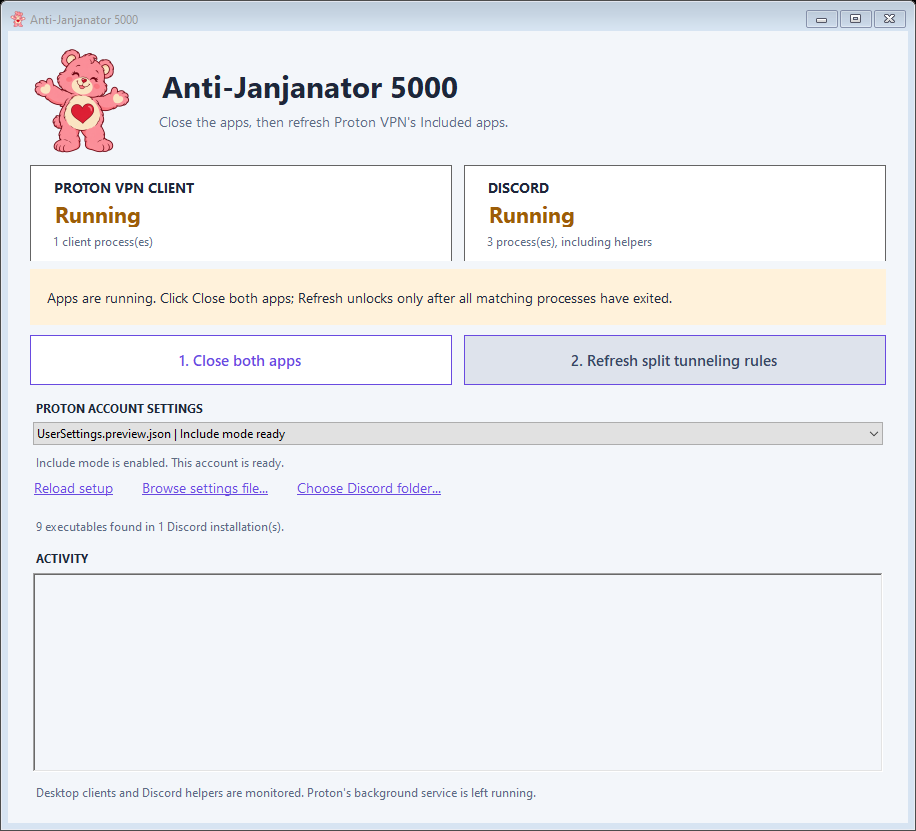
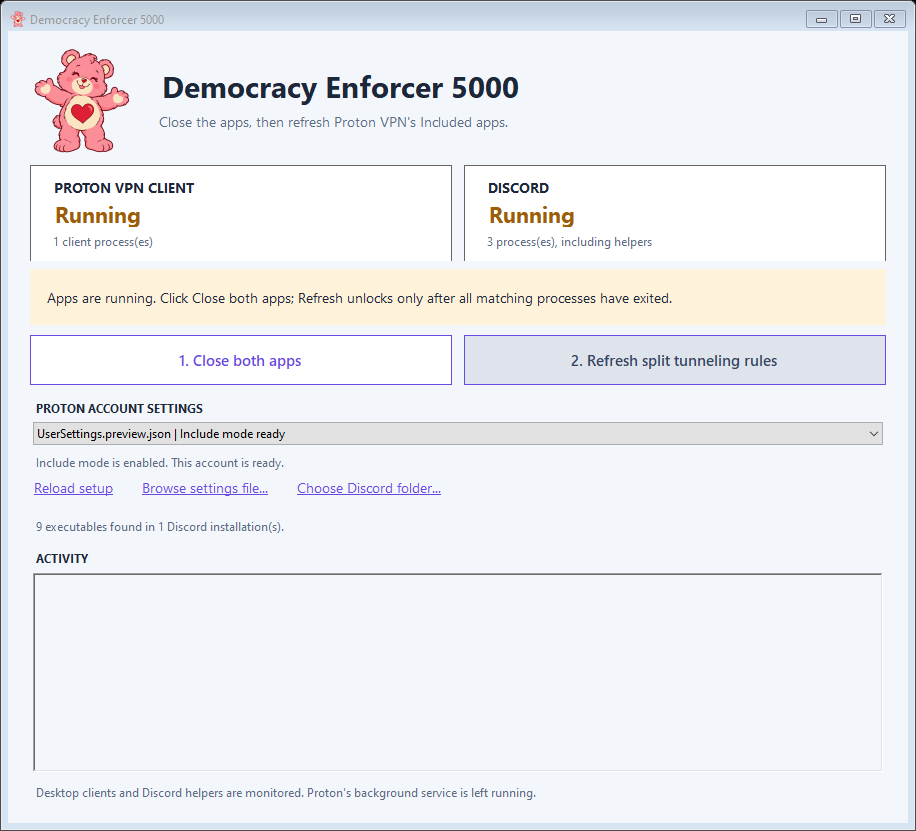
Rename software to Democracy Enforcer 5000

Changed region(s): [[0.1834, 0.0903, 0.5808, 0.1203], [0.0306, 0.0, 0.1834, 0.0301]]

diff --git a/docs/site/index.html b/docs/site/index.html
@@ -4,16 +4,16 @@
   <meta charset="utf-8">
   <meta name="viewport" content="width=device-width, initial-scale=1">
   <meta name="theme-color" content="#f7efdf">
-  <meta name="description" content="Anti-Janjanator 5000 — a portable Windows utility that keeps Discord's executable paths current in Proton VPN's Included apps.">
+  <meta name="description" content="Democracy Enforcer 5000 — a portable Windows utility that keeps Discord's executable paths current in Proton VPN's Included apps.">
   <link rel="icon" href="assets/love-bear.png">
-  <title>Anti-Janjanator 5000 / Made with love.</title>
+  <title>Democracy Enforcer 5000 / Made with love.</title>
   <link rel="stylesheet" href="style.css">
   <script src="script.js" defer></script>
 </head>
 <body>
   <a class="skip" href="#main">Skip to content</a>
   <header class="nav wrap">
-    <a class="brand" href="#" aria-label="Anti-Janjanator 5000 home"><img class="brand-art" src="assets/love-bear.png" alt="Pink bear with a heart"><span>ANTI-JANJANATOR<span class="brand-sub">5000 / NETWORK UTILITIES</span></span></a>
+    <a class="brand" href="#" aria-label="Democracy Enforcer 5000 home"><img class="brand-art" src="assets/love-bear.png" alt="Pink bear with a heart"><span>DEMOCRACY ENFORCER<span class="brand-sub">5000 / NETWORK UTILITIES</span></span></a>
     <nav aria-label="Main navigation"><a href="#protocol">How it works</a><a href="#setup">Get started</a><a class="repo-link" href="https://github.com/Billy364/Anti-Janjanator-5000-repo">Source code <span aria-hidden="true">↗</span></a></nav>
   </header>
   <main id="main">
@@ -24,28 +24,28 @@
         <p class="tagline">Because Democracy is beautiful and we should break all the rules to defend it</p>
         <p class="intro">New Discord version. New executable path. Same broken split tunneling. <strong>Put the right paths back in Proton VPN.</strong></p>
         <div class="actions"><a class="button" href="#setup">BUILD YOUR COPY <span aria-hidden="true">↗</span></a><a class="text-link" href="#protocol">See how it works <span aria-hidden="true">↓</span></a></div>
-        <div class="hero-meta"><span>WINDOWS x64</span><span>PORTABLE</span><span>v9 SOURCE</span></div>
+        <div class="hero-meta"><span>WINDOWS x64</span><span>PORTABLE</span><span>v11 SOURCE</span></div>
       </div>
       <figure class="app-showcase">
-        <div class="app-label"><span class="pulse"></span> ANTI-JANJANATOR 5000 <span>WINDOWS / v9</span></div>
-        <a href="assets/screenshot.png" target="_blank" rel="noopener" aria-label="View full-size app screenshot"><img class="app-screenshot" src="assets/screenshot.png" alt="Anti-Janjanator 5000 Windows interface showing Proton and Discord status, Close both apps and Refresh split tunneling rules buttons, and an example Proton account." width="916" height="831"></a>
+        <div class="app-label"><span class="pulse"></span> DEMOCRACY ENFORCER 5000 <span>WINDOWS / v11</span></div>
+        <a href="assets/screenshot.png" target="_blank" rel="noopener" aria-label="View full-size app screenshot"><img class="app-screenshot" src="assets/screenshot.png" alt="Democracy Enforcer 5000 Windows interface showing Proton and Discord status, Close both apps and Refresh split tunneling rules buttons, and an example Proton account." width="916" height="831"></a>
         <figcaption><span>THE ACTUAL APP / EXAMPLE DATA</span><a href="assets/screenshot.png" target="_blank" rel="noopener">INSPECT FULL SIZE ↗</a></figcaption>
       </figure>
     </section>
     <div class="ticker"><div class="wrap"><span>NO INSTALLER</span><span class="cross" aria-hidden="true">♥</span><span>NO EXTERNAL LIBRARIES</span><span class="cross" aria-hidden="true">♥</span><span>YOUR SETTINGS. YOUR MACHINE.</span><span class="cross" aria-hidden="true">♥</span><span>READ THE SOURCE</span></div></div>
     <section id="protocol" class="section wrap">
       <div class="section-heading"><p class="eyebrow">01 / A LITTLE CARE GOES A LONG WAY</p><h2>Two buttons.<br>One clean handoff.</h2><p>Discord moves its executables between version folders. This utility finds the current paths and refreshes Proton’s Included apps, while preserving unrelated entries.</p></div>
-      <div class="steps"><article><span class="step-number">01</span><div><p class="micro">SHUTDOWN / VERIFY</p><h3>Close both apps.</h3><p>Close Discord and Proton’s desktop client. Helpers are checked too. If a process can’t be verified, Refresh stays locked.</p><span class="tag">BACKGROUND VPN SERVICE LEFT RUNNING</span></div></article><article><span class="step-number">02</span><div><p class="micro">SCAN / BACK UP / REPLACE</p><h3>Refresh the rules.</h3><p>Add current Discord executables. Remove stale paths. Keep other Included apps. Each actual change gets an exact backup.</p><span class="tag">ALREADY CURRENT? NO WRITE. NO BACKUP.</span></div></article><article><span class="step-number">↗</span><div><p class="micro">MANUAL HANDOFF</p><h3>Reconnect. Carry on.</h3><p>Open Proton yourself and reconnect, then reopen Discord. The utility leaves the apps closed after refreshing.</p><span class="tag">DISCORD / PTB / CANARY</span></div></article></div>
+      <div class="steps"><article><span class="step-number">01</span><div><p class="micro">SHUTDOWN / VERIFY</p><h3>Close both apps.</h3><p>Close Discord and Proton’s desktop client. Helpers are checked too. If a process can’t be verified, Refresh stays locked.</p><span class="tag">BACKGROUND VPN SERVICE LEFT RUNNING</span></div></article><article><span class="step-number">02</span><div><p class="micro">SCAN / BACK UP / REPLACE</p><h3>Refresh the rules.</h3><p>Enable Include mode and add current Discord executables. Remove stale paths and keep other Included apps. Each actual change gets an exact backup.</p><span class="tag">ALREADY CURRENT? NO WRITE. NO BACKUP.</span></div></article><article><span class="step-number">↗</span><div><p class="micro">AUTOMATIC HANDOFF</p><h3>Reconnect. Carry on.</h3><p>Proton opens automatically after a successful refresh. Wait for its connection, then reopen Discord. Discord stays closed.</p><span class="tag">DISCORD / PTB / CANARY</span></div></article></div>
     </section>
-    <section class="setup-note wrap"><span class="note-icon" aria-hidden="true">!</span><div><p class="micro">KNOW WHAT YOU’RE RUNNING</p><h3>First launch sets your Proton preferences.</h3><p>Once per Windows user, setup requests startup with Windows, auto-connect, Fastest country excluding Brazil, Proton WireGuard, and Split tunneling in Include mode. It waits for Proton to exit and backs up changed files. You can continue without setup.</p><a class="text-link" href="https://github.com/Billy364/Anti-Janjanator-5000-repo/blob/main/docs/FIRST-LAUNCH.md">Read the first-launch details ↗</a></div></section>
+    <section class="setup-note wrap"><span class="note-icon" aria-hidden="true">!</span><div><p class="micro">KNOW WHAT YOU’RE RUNNING</p><h3>First launch sets your Proton preferences.</h3><p>Once per Windows user, setup requests startup with Windows, auto-connect, Fastest country excluding Brazil, Proton WireGuard, and Split tunneling in Include mode. Exit Proton, select your account, then click Apply setup and open updater. Setup is required before first use and backs up changed files.</p><a class="text-link" href="https://github.com/Billy364/Anti-Janjanator-5000-repo/blob/main/docs/FIRST-LAUNCH.md">Read the first-launch details ↗</a></div></section>
     <section id="setup" class="section deploy wrap">
       <div class="section-heading"><p class="eyebrow">02 / MADE FOR YOUR MACHINE</p><h2>Open source.<br><span class="green">Open hearts.</span></h2><p>64-bit Windows, Windows PowerShell 5.1, and the .NET Framework 4.x C# compiler. No NuGet, npm, or Visual Studio project required.</p><a class="text-link" href="https://github.com/Billy364/Anti-Janjanator-5000-repo">Explore the repository ↗</a></div>
-      <div class="build-panel"><div class="build-heading"><span>WINDOWS POWERSHELL</span><button id="copy" type="button">COPY COMMANDS <span aria-hidden="true">▣</span></button></div><pre><code id="commands">git clone https://github.com/Billy364/Anti-Janjanator-5000-repo.git
-cd Anti-Janjanator-5000-repo
-powershell.exe -NoProfile -ExecutionPolicy Bypass -File .\build.ps1</code></pre><div class="build-result"><span class="green">↳ OUTPUT</span><code>dist\Anti-Janjanator-5000\</code><p>Open <strong>Anti-Janjanator 5000.exe</strong>. Keep the entire folder together; the PowerShell workers must stay beside it. A portable ZIP is generated too.</p></div><p id="copy-status" class="copy-status" role="status" aria-live="polite"></p></div>
+      <div class="build-panel"><div class="build-heading"><span>WINDOWS POWERSHELL</span><button id="copy" type="button">COPY COMMANDS <span aria-hidden="true">▣</span></button></div><pre><code id="commands">git clone https://github.com/Billy364/Anti-Janjanator-5000-repo.git Democracy-Enforcer-5000-repo
+cd Democracy-Enforcer-5000-repo
+powershell.exe -NoProfile -ExecutionPolicy Bypass -File .\build.ps1</code></pre><div class="build-result"><span class="green">↳ OUTPUT</span><code>dist\Democracy-Enforcer-5000\</code><p>Open <strong>Democracy Enforcer 5000.exe</strong>. Keep the entire folder together; the PowerShell workers must stay beside it. A portable ZIP is generated too.</p></div><p id="copy-status" class="copy-status" role="status" aria-live="polite"></p></div>
     </section>
     <section class="fine-print wrap"><p><span class="green">// TRANSPARENCY</span> Unofficial utility. Builds are unsigned. Synthetic tests cover settings preservation and process guards; they do not verify live VPN traffic routing. Proton controls feature availability.</p><a href="https://github.com/Billy364/Anti-Janjanator-5000-repo/blob/main/docs/USER-GUIDE.md">USER GUIDE ↗</a></section>
   </main>
-  <footer class="wrap"><a class="footer-brand" href="#">ANTI-JANJANATOR <span class="green">5000</span></a><span>MADE WITH LOVE. FOR DEMOCRACY.</span><a href="https://github.com/Billy364/Anti-Janjanator-5000-repo">GITHUB ↗</a></footer>
+  <footer class="wrap"><a class="footer-brand" href="#">DEMOCRACY ENFORCER <span class="green">5000</span></a><span>MADE WITH LOVE. FOR DEMOCRACY.</span><a href="https://github.com/Billy364/Anti-Janjanator-5000-repo">GITHUB ↗</a></footer>
 </body>
 </html>

diff --git a/tests/HeaderPreview.cs b/tests/HeaderPreview.cs
@@ -25,7 +25,7 @@ class HeaderPreview
     static Label FindHeading(Control control)
     {
         Label label = control as Label;
-        if (label != null && label.Text == "Anti-Janjanator 5000") return label;
+        if (label != null && label.Text == "Democracy Enforcer 5000") return label;
         foreach (Control child in control.Controls) { Label found = FindHeading(child); if (found != null) return found; }
         return null;
     }
@@ -45,7 +45,7 @@ class HeaderPreview
             FieldInfo field = typeof(UpdaterForm).GetField("trayIcon", BindingFlags.NonPublic | BindingFlags.Instance);
             NotifyIcon tray = (NotifyIcon)field.GetValue(form);
             if (tray == null || tray.Icon == null || !tray.Visible || tray.ContextMenuStrip.Items.Count != 3) throw new Exception("Tray icon/menu incomplete.");
-            if (form.Text != "Anti-Janjanator 5000" || tray.Text != form.Text || tray.ContextMenuStrip.Items[0].Text != "Open " + form.Text) throw new Exception("App name mismatch.");
+            if (form.Text != "Democracy Enforcer 5000" || tray.Text != form.Text || tray.ContextMenuStrip.Items[0].Text != "Open " + form.Text) throw new Exception("App name mismatch.");
             Label heading = FindHeading(form);
             if (heading == null || TextRenderer.MeasureText(heading.Text, heading.Font).Width > heading.ClientSize.Width) throw new Exception("Header name missing or clipped.");
             using (Bitmap preview = new Bitmap(form.Width, form.Height))

diff --git a/src/UpdaterWindow.cs b/src/UpdaterWindow.cs
@@ -10,8 +10,8 @@ using System.Runtime.InteropServices;
 using System.Web.Script.Serialization;
 using System.Windows.Forms;
 
-[assembly: System.Reflection.AssemblyTitle("Anti-Janjanator 5000")]
-[assembly: System.Reflection.AssemblyProduct("Anti-Janjanator 5000")]
+[assembly: System.Reflection.AssemblyTitle("Democracy Enforcer 5000")]
+[assembly: System.Reflection.AssemblyProduct("Democracy Enforcer 5000")]
 [assembly: System.Reflection.AssemblyDescription("Discord rules updater for Proton VPN split tunneling")]
 [assembly: System.Reflection.AssemblyVersion("11.0.0.0")]
 [assembly: System.Reflection.AssemblyFileVersion("11.0.0.0")]
@@ -20,7 +20,7 @@ namespace DiscordProtonUpdater
 {
     public static class AppIdentity
     {
-        public const string Name = "Anti-Janjanator 5000";
+        public const string Name = "Democracy Enforcer 5000";
     }
 
     public sealed class AccountInfo

diff --git a/AGENTS.md b/AGENTS.md
@@ -1,6 +1,6 @@
 # Agent instructions
 
-These instructions apply to the entire Anti-Janjanator 5000 repository.
+These instructions apply to the entire Democracy Enforcer 5000 repository.
 Read [README.md](README.md), [the user guide](docs/USER-GUIDE.md), and
 [validation notes](docs/VALIDATION.md) before changing app behavior.
 
@@ -9,8 +9,8 @@ Read [README.md](README.md), [the user guide](docs/USER-GUIDE.md), and
 Use Git from a parent directory where a new checkout can be created:
 
 ```powershell
-git clone https://github.com/Billy364/Anti-Janjanator-5000-repo.git Anti-Janjanator-5000
-Set-Location .\Anti-Janjanator-5000
+git clone https://github.com/Billy364/Anti-Janjanator-5000-repo.git Democracy-Enforcer-5000
+Set-Location .\Democracy-Enforcer-5000
 git status --short
 ```
 
@@ -59,11 +59,11 @@ The script compiles the C# interface for x64, embeds the header artwork and ICO,
 copies the required workers and documentation, and creates a portable ZIP.
 For the current v11 source, outputs are:
 
-- `dist\Anti-Janjanator-5000\Anti-Janjanator 5000.exe`
-- `dist\Anti-Janjanator-5000\Open Anti-Janjanator 5000.cmd`
-- `dist\Anti-Janjanator-5000\UpdaterWorker.ps1`
-- `dist\Anti-Janjanator-5000\Update-DiscordRules.ps1`
-- `dist\Anti-Janjanator-5000-v11.zip`
+- `dist\Democracy-Enforcer-5000\Democracy Enforcer 5000.exe`
+- `dist\Democracy-Enforcer-5000\Open Democracy Enforcer 5000.cmd`
+- `dist\Democracy-Enforcer-5000\UpdaterWorker.ps1`
+- `dist\Democracy-Enforcer-5000\Update-DiscordRules.ps1`
+- `dist\Democracy-Enforcer-5000-v11.zip`
 
 Distribute the generated ZIP or the entire app folder, not just the EXE: the
 PowerShell workers must stay beside it. The build is unsigned. The
@@ -73,7 +73,7 @@ change machine-wide execution policy as part of the build.
 To try the app, only when requested, open the EXE from the generated folder.
 Building and testing do not require closing the user's real Discord or Proton
 apps. If compilation cannot overwrite its output EXE, close that running copy
-of Anti-Janjanator 5000 before rebuilding.
+of Democracy Enforcer 5000 before rebuilding.
 
 ## Verify changes
 

diff --git a/README.md b/README.md
@@ -1,9 +1,9 @@
-# Anti-Janjanator 5000
+# Democracy Enforcer 5000
 
 A portable Windows app that refreshes Discord executable paths in Proton VPN's
 Split Tunneling **Included apps** after Discord updates.
 
-![Anti-Janjanator 5000 interface with example data](docs/screenshot.png)
+![Democracy Enforcer 5000 interface with example data](docs/screenshot.png)
 
 The app monitors Discord and the Proton VPN desktop client. Use **Close both
 apps**, then **Refresh split tunneling rules** once both have exited. Select
@@ -55,9 +55,9 @@ From Windows PowerShell in this repository:
 powershell.exe -NoProfile -ExecutionPolicy Bypass -File .\build.ps1
 ```
 
-Open `dist\Anti-Janjanator-5000\Anti-Janjanator 5000.exe`. Keep the generated
+Open `dist\Democracy-Enforcer-5000\Democracy Enforcer 5000.exe`. Keep the generated
 folder together: the two PowerShell workers are needed at runtime. The build
-also creates `dist\Anti-Janjanator-5000-v11.zip` for sharing. Builds are unsigned.
+also creates `dist\Democracy-Enforcer-5000-v11.zip` for sharing. Builds are unsigned.
 
 ## Verify
 

diff --git a/docs/USER-GUIDE.md b/docs/USER-GUIDE.md
@@ -1,13 +1,13 @@
-# Anti-Janjanator 5000
+# Democracy Enforcer 5000
 
-Open **Anti-Janjanator 5000.exe**, or double-click **Open Anti-Janjanator 5000.cmd**. Extract
+Open **Democracy Enforcer 5000.exe**, or double-click **Open Democracy Enforcer 5000.cmd**. Extract
 the ZIP first and keep all files together. This is a portable 64-bit Windows
 desktop app; no installer is needed. The C# and PowerShell source is included.
 The executable is locally built and unsigned.
 
 The supplied artwork is embedded in the header and used for the application,
 title-bar, and system-tray icon. Double-click the tray icon, or right-click it
-and choose **Open Anti-Janjanator 5000**, to bring the window back. **Exit** closes the
+and choose **Open Democracy Enforcer 5000**, to bring the window back. **Exit** closes the
 updater; an operation already in progress must finish first. The tray icon is
 removed when the updater exits.
 

diff --git a/CHANGELOG.md b/CHANGELOG.md
@@ -1,3 +1,7 @@
+## Unreleased
+
+- Rename the app to Democracy Enforcer 5000, including the executable, launcher, window, tray, portable package, and website. Preserve existing setup completion records and account settings.
+
 # Changelog
 
 ## v11
